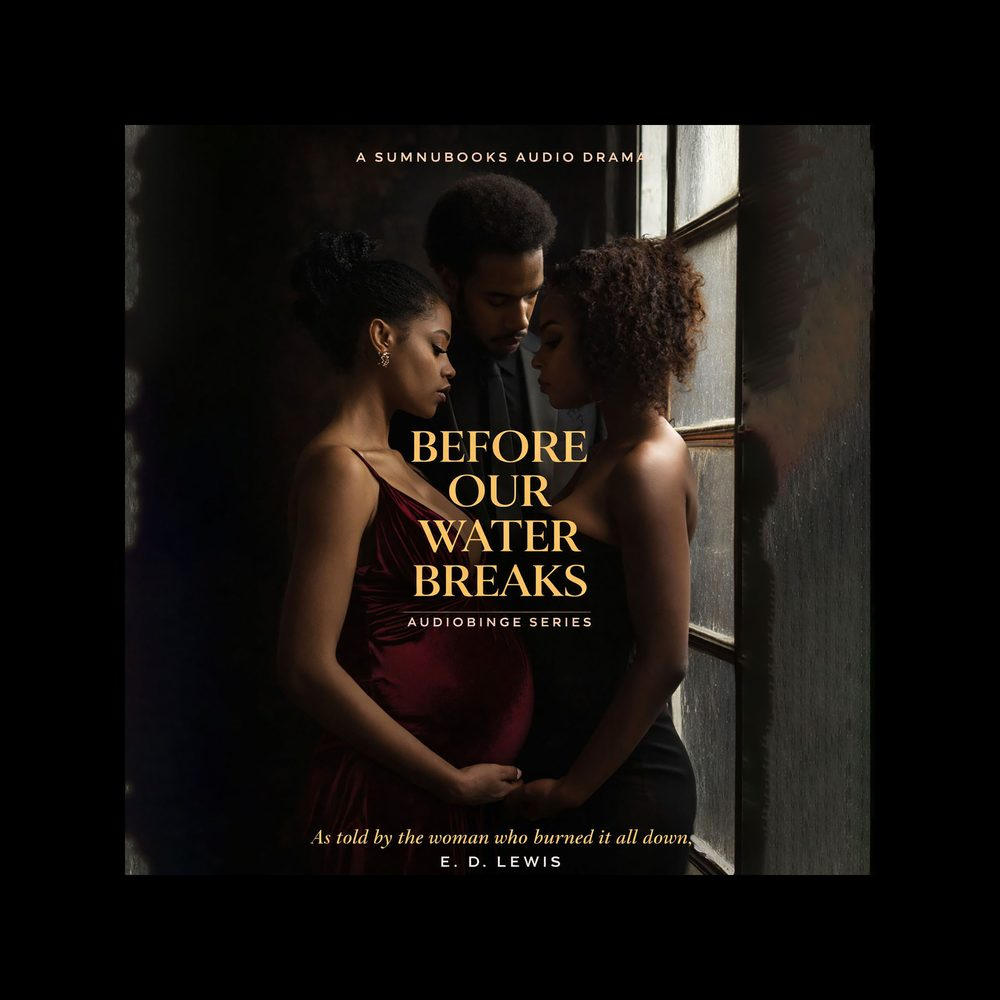
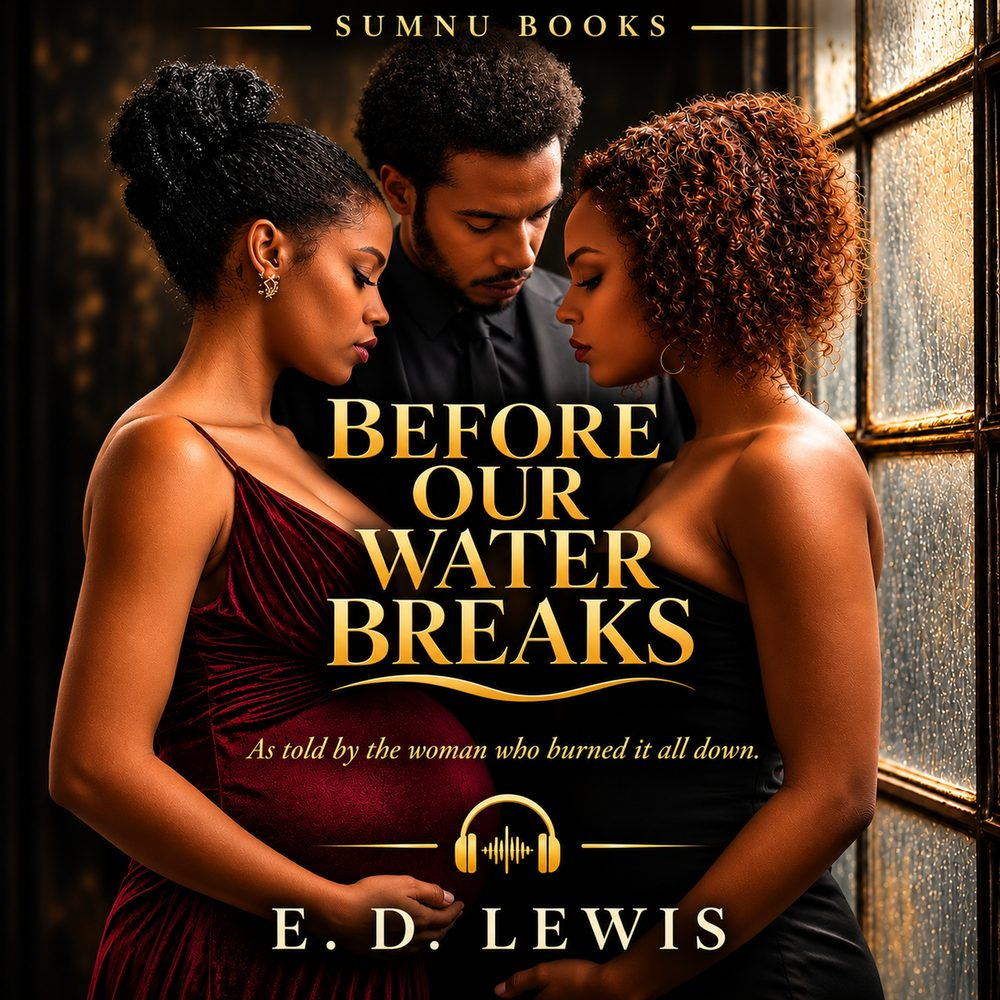
Before Our Water Breaks: new cover (2026-11-04) (#86)

diff --git a/series.html b/series.html
@@ -831,7 +831,7 @@
       title: 'Before Our Water Breaks',
       eyebrow: 'Drama · SumnuBooks Audio',
       tagline: 'As told by the woman who burned it all down.',
-      cover: 'images/covers-square/before-our-water-breaks-badge-20261022.webp',
+      cover: 'images/covers-square/before-our-water-breaks-20261104.webp',
       freeCount: 2,
       payhip: 'https://payhip.com/b/BL9JG',
       price: '5.99',
@@ -839,7 +839,7 @@
       chapters: Array.from({length:8}, (_,i) => `Episode ${i+1}`),
       items: Array.from({length:8}, (_,i) => ({
         number: i+1,
-        image: 'images/covers-square/before-our-water-breaks-badge-20261022.webp',
+        image: 'images/covers-square/before-our-water-breaks-20261104.webp',
         audio: `audio/series/before-our-water-breaks/before-our-water-breaks-ep${i+1}.mp3`
       }))
     },

diff --git a/index.html b/index.html
@@ -1424,7 +1424,7 @@ const siteData = {
       label: 'Audio drama',
       meta: '8 episodes • episodes 1–2 free',
       tagline: 'Two sisters. One husband. Two pregnancies. One truth too big to stay buried.',
-      cover: 'images/series/before-our-water-breaks/before-our-water-breaks-cover.jpg',
+      cover: 'images/series/before-our-water-breaks/before-our-water-breaks-cover-20261104.jpg',
       items: Array.from({length:8}, (_,i) => ({
         number: i + 1,
         title: `Episode ${i+1}`,
